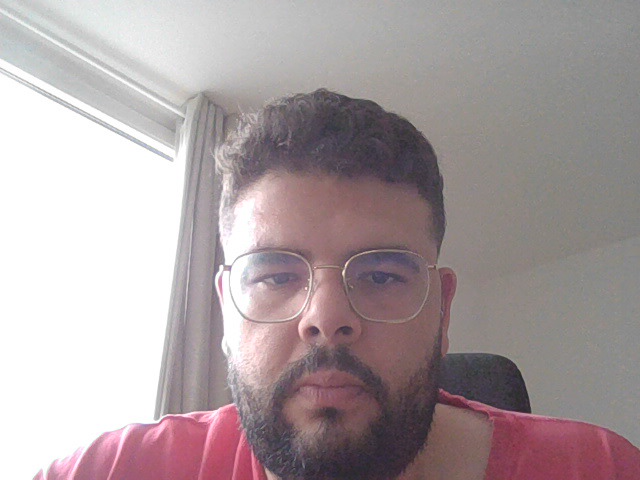
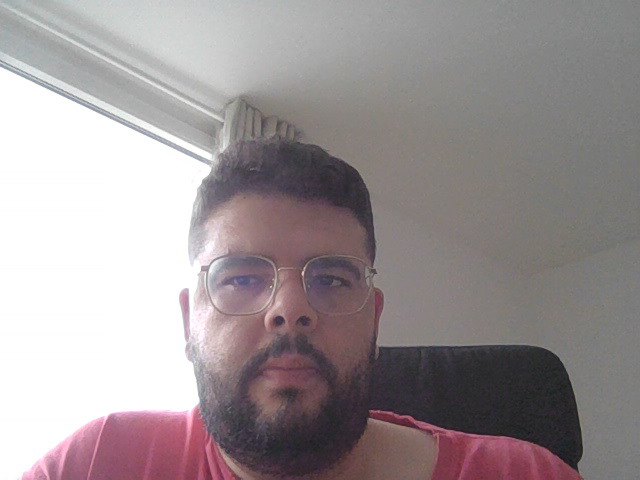
camera_input

diff --git a/main.py b/main.py
@@ -1,13 +1,6 @@
 import streamlit as st
-import cv2
-import time
-
 
 Button= st.button("Go")
 
 if Button:
-    video=cv2.VideoCapture(0)
-    check, frame = video.read()
-    cv2.imwrite("Test.png", frame)
-
-    st.image("Test.png")
+    st.camera_input("Camera")
